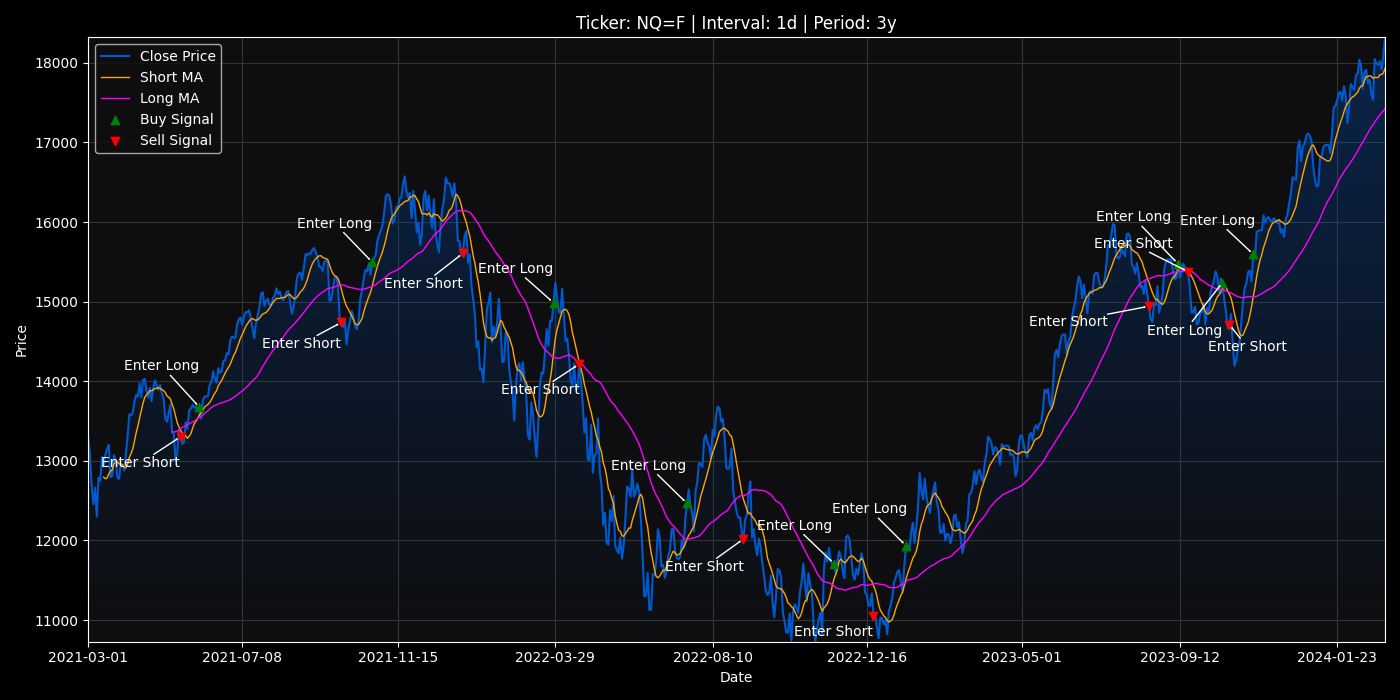
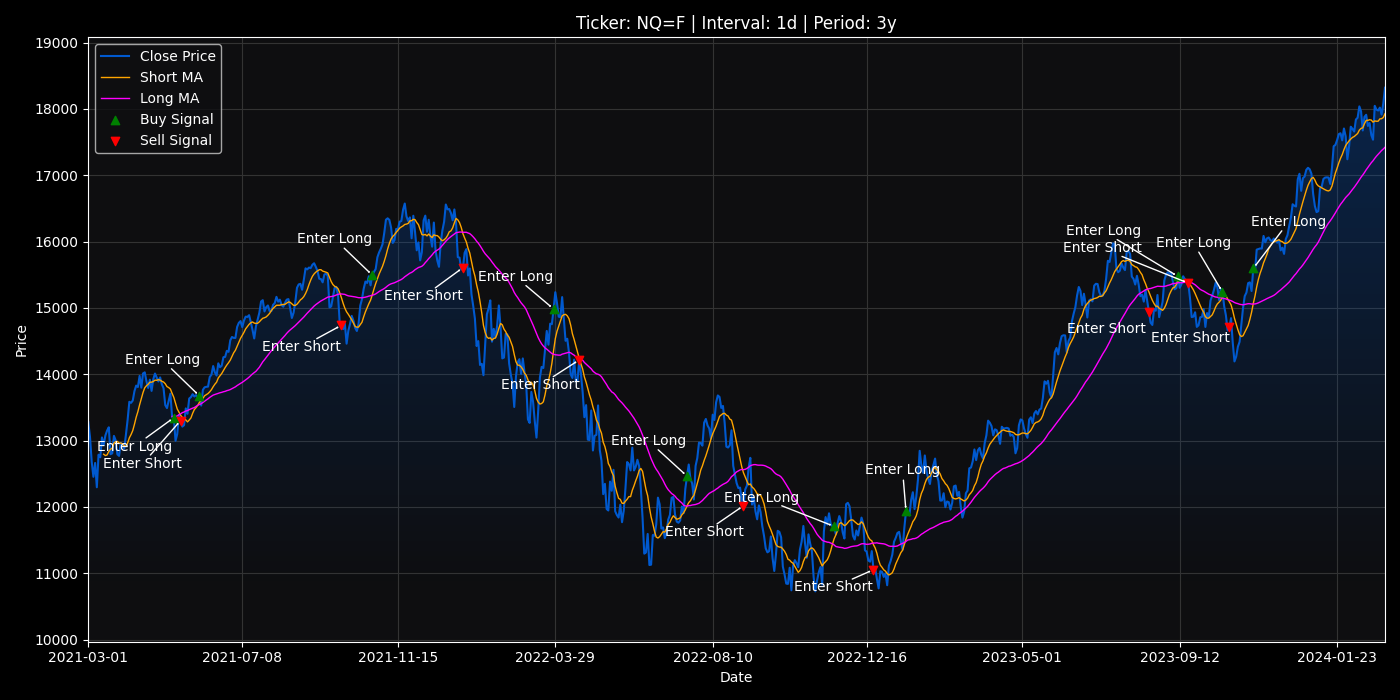
Adding gradient to Equity Curves, updating README.md

diff --git a/plotting.py b/plotting.py
@@ -14,17 +14,8 @@ plt.rcParams['figure.facecolor'] = '#0E0E10'
 figsize=(14, 7)
 
 
-def ma_chart(data, trades, ticker, interval, period):
-    fig = plt.figure(figsize=figsize)
-    ax = plt.gca()
-
-    # Plot price line
-    line, = plt.plot(data.index, data['Close'], label='Close Price', color='#0059CF')
-
-    # plt.xticks(data.index, data['Datetime'])
-
-    fill_color = '#0059CF'
-
+def draw_gradient(line, y, ax):
+    fill_color = line.get_color()
     zorder = line.get_zorder()
     alpha = line.get_alpha()
     alpha = 1.0 if alpha is None else alpha
@@ -34,8 +25,8 @@ def ma_chart(data, trades, ticker, interval, period):
     z[:, :, :3] = rgb
     z[:, :, -1] = np.linspace(0, alpha, 100)[:, None]
 
-    x = np.arange(len(data))
-    y = data['Close']
+    x = np.arange(len(y))
+    y = y
     xmin, xmax, ymin, ymax = x.min(), x.max(), y.min(), y.max()
     im = ax.imshow(z, aspect='auto', extent=[xmin, xmax, ymin, ymax],
                    origin='lower', zorder=zorder, alpha=0.3, cmap='Blues')
@@ -46,7 +37,21 @@ def ma_chart(data, trades, ticker, interval, period):
     ax.add_patch(clip_path)
     im.set_clip_path(clip_path)
 
-    ax.autoscale(True)
+    # Adjust the y-axis limits to expand the plot vertically
+    ax.set_ylim(bottom=min(y) - 0.1 * (max(y) - min(y)), top=max(y) + 0.1 * (max(y) - min(y)))
+
+    #ax.autoscale(True)
+
+def ma_chart(data, trades, ticker, interval, period):
+    fig = plt.figure(figsize=figsize)
+    ax = plt.gca()
+
+    # Plot price line
+    line, = plt.plot(data.index, data['Close'], label='Close Price', color='#0059CF')
+
+    # plt.xticks(data.index, data['Datetime'])
+
+    draw_gradient(line, data['Close'], ax)
 
     # plt.xlim(data.index[0], data.index[-1])
     # plt.ylim(data['Close'].min(), data['Close'].max())
@@ -101,7 +106,10 @@ def equity_curve(portfolio_values, title='Equity Curve'):
     ax = plt.gca()
     ax.xaxis.set_major_locator(mdates.AutoDateLocator())
 
-    plt.plot(portfolio_values['date'], portfolio_values['value'], label='Equity Curve', color='purple')
+    line, = plt.plot(portfolio_values['date'], portfolio_values['value'], label='Equity Curve', color='purple')
+
+    draw_gradient(line, portfolio_values['value'], ax)
+
     plt.title(title)
     plt.xlabel('Date')
     plt.ylabel('Portfolio Value')

diff --git a/demo.py b/demo.py
@@ -5,9 +5,9 @@ from fetchdata import fetch_data
 from plotting import ma_chart, equity_curve
 
 
-def backtester_demo(ticker, strategy, initial_capital=100000, interval='1d', period='1y'):
+def backtester_demo(ticker, strategy, initial_capital=100000, interval='1d', period='1y', equity_curve_title=None):
     equity_data = fetch_data(ticker, interval, period=period)
-    backtester = Backtester(equity_data, initial_capital=initial_capital, strategy=strategy, position_sizing="fixed")
+    backtester = Backtester(equity_data, initial_capital=initial_capital, strategy=strategy, position_sizing="percent")
 
     backtester.backtest()
 
@@ -17,14 +17,14 @@ def backtester_demo(ticker, strategy, initial_capital=100000, interval='1d', per
     portfolio_values = backtester.get_portfolio_values()
 
     print(backtesting_report)
-    print(backtester.get_portfolio_values())
-    print(pandas.DataFrame(trades))
+    # print(backtester.get_portfolio_values())
+    # print(pandas.DataFrame(trades))
 
     # To-do integrate charting with Backtester
     # Plot chart with buy and sell signals
     ma_chart(equity_data, trades, ticker, interval, period)
 
     # Plot portfolio's equity curve
-    equity_curve(portfolio_values)
+    equity_curve(portfolio_values, title=equity_curve_title)
 
 

diff --git a/main.py b/main.py
@@ -8,11 +8,18 @@ from utils import calculate_ema
 if __name__ == "__main__":
     # Ticker
     nasdaq_futures = 'NQ=F'
+    eurusd = 'EURUSD=X'
+
+    short_ma = 10
+    long_ma = 50
 
     # Simple Moving Average Demo (10-50 cross by default)
-    SMA_strategy = MACrossStrategy(short_window=5, long_window=20)
-    backtester_demo(nasdaq_futures, SMA_strategy, period="1y", interval='1d')
+    SMA_strategy = MACrossStrategy(short_window=short_ma, long_window=long_ma)
+    backtester_demo(nasdaq_futures, SMA_strategy, period="3y", interval='1d',
+                    equity_curve_title=f"Equity Curve for {short_ma}-{long_ma} SMA crossover strategy on {nasdaq_futures}")
+
 
     # Exponential Moving Average Demo
-    # EMA_strategy = MACrossStrategy(ma_func=pd.DataFrame.ewm, short_window=5, long_window=20)
-    # backtester_demo(nasdaq_futures, EMA_strategy, period="3y", interval='1d')
+    EMA_strategy = MACrossStrategy(ma_func=pd.DataFrame.ewm, short_window=short_ma, long_window=long_ma)
+    backtester_demo(eurusd, EMA_strategy, period="3y", interval='1d',
+                    equity_curve_title=f"Equity Curve for {short_ma}-{long_ma} EMA crossover strategy on {eurusd}")

diff --git a/Backtester.py b/Backtester.py
@@ -104,8 +104,13 @@ class Backtester:
         report_str += f"Final portfolio value: {self.get_final_value():.2f}\n"
         report_str += f"Gross Profit: {self.get_profit():.2%}\n"
         report_str += f"Buy-n-hold return {self.get_buy_n_hold():.2%}\n"
-        report_str += f"Two-way trades executed: {len(self.get_portfolio_values()) - 1}\n"
-        # to do average profit/loss, number of profitable/losing trades
+
+        portfolio_values = self.get_portfolio_values()
+        report_str += f"Two-way trades executed: {len(portfolio_values) - 1}\n"
+
+        average_pnl = portfolio_values['pnl'].mean()
+        report_str += f"Average PnL: {average_pnl:.2f}\n"
+
         report_str += "************\n"
 
         return report_str

diff --git a/README.md b/README.md
@@ -3,16 +3,17 @@
 ## Demo
 
 ### Simple Moving Average Crossover Strategy on Nasdaq Futures
-#### Period: 3 years | Interval: 1 day
+#### Period: 3 years | Interval: 1 day | Short MA: 10; Long MA: 50
 
 Backtesting report:
 ```
 ************
 Initial capital: 100000
-Final portfolio value: 123022.42
-Gross Profit: 23.02%
+Final portfolio value: 122630.66
+Gross Profit: 22.63%
 Buy-n-hold return 37.96%
-Two-way trades executed: 18
+Two-way trades executed: 19
+Average PnL: 1191.09
 ************
 ```
 
@@ -23,22 +24,23 @@ Equity curve:
 ![nqf_1d_3y_sma_equity_curve.png](charts%2Fnqf_1d_3y_sma_equity_curve.png)
 
 
-### Exponential Moving Averages Crossover Strategy on Nasdaq Futures
-#### Period: 3 years | Interval: 1 day
+### Exponential Moving Averages Crossover Strategy on EURUSD Forex Pair
+#### Period: 3 years | Interval: 1 day | Short MA: 10; Long MA: 50
 
 Backtesting report:
 ```
 ************
 Initial capital: 100000
-Final portfolio value: 130997.18
-Gross Profit: 31.00%
-Buy-n-hold return 37.96%
+Final portfolio value: 112073.23
+Gross Profit: 12.07%
+Buy-n-hold return -10.63%
 Two-way trades executed: 6
+Average PnL: 2012.20
 ************
 ```
 
 Moving Average Plot with trade signals:
-![nqf_1d_3y_ema.png](charts%2Fnqf_1d_3y_ema.png)
+![nqf_1d_3y_sma.png](charts%2Fnqf_1d_3y_sma.png)
 
 Equity curve:!
-[nqf_1d_3y_ema_equity_curve.png](charts%2Fnqf_1d_3y_ema_equity_curve.png)
+![nqf_1d_3y_sma_equity_curve.png](charts%2Fnqf_1d_3y_sma_equity_curve.png)
